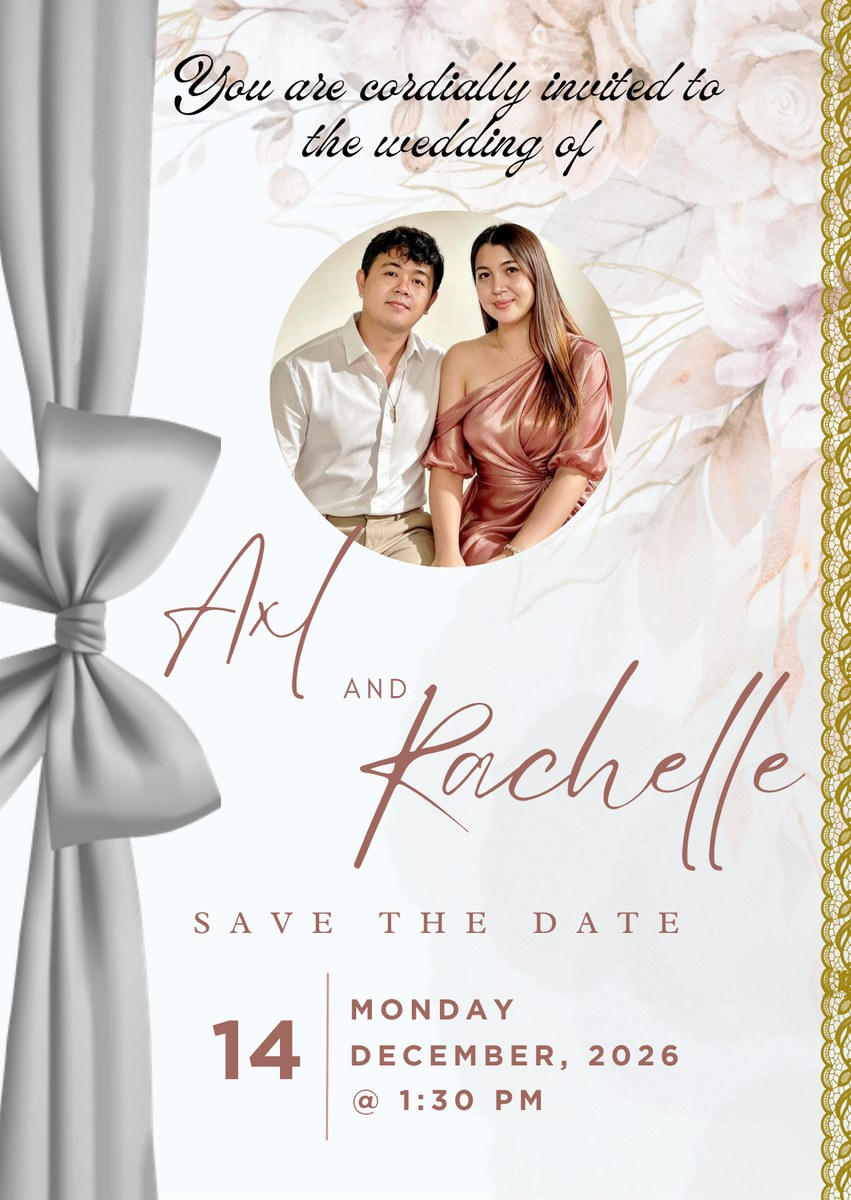
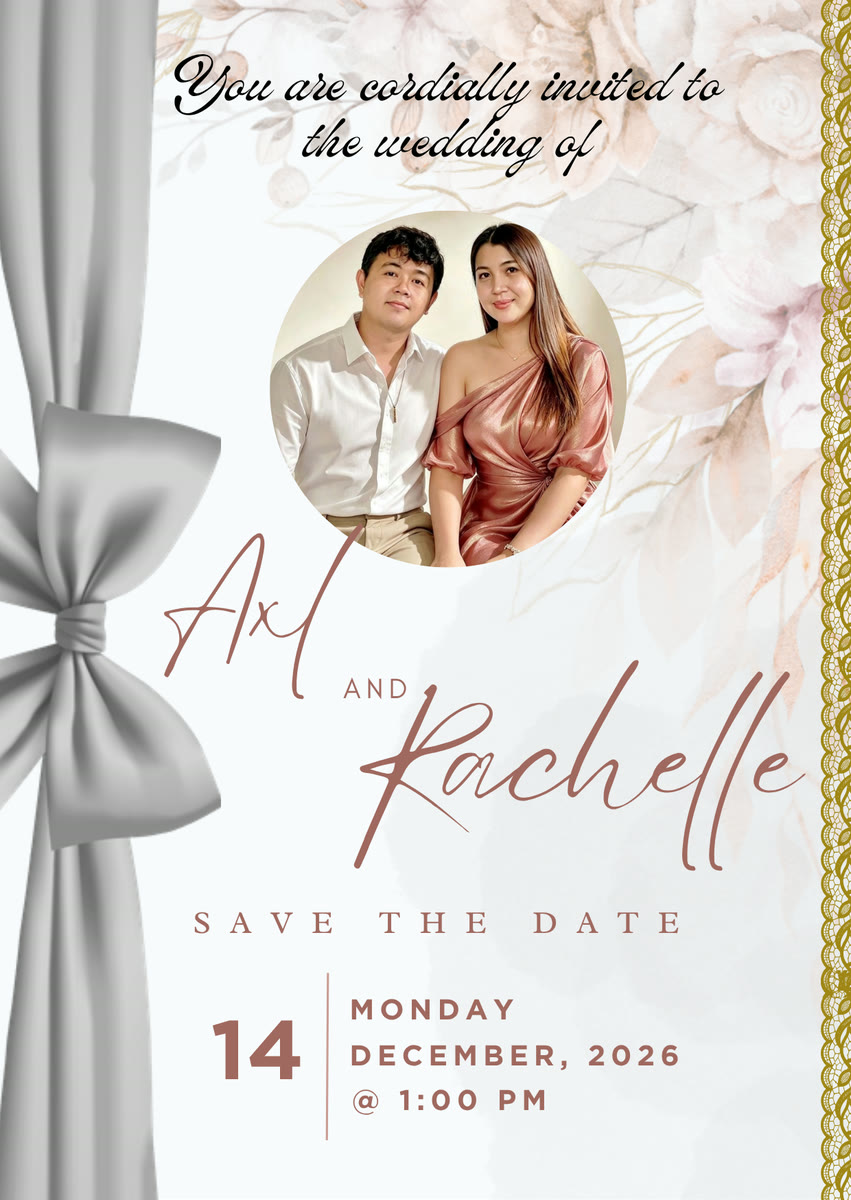
Add two godparents and update the cover time to 1:00 pm

Changed region(s): [[0.9471, 0.0, 1.0, 1.0], [0.4888, 0.8942, 0.6416, 0.925]]

diff --git a/dedication/index.html b/dedication/index.html
@@ -1018,6 +1018,8 @@
           <li>Angelito Jimenez</li>
           <li>Joshua Ugalde</li>
           <li>Aira Gapate</li>
+          <li>Precious Leinor Atun</li>
+          <li>Jinky Reyes</li>
         </ul>
       </div>
     </template>
